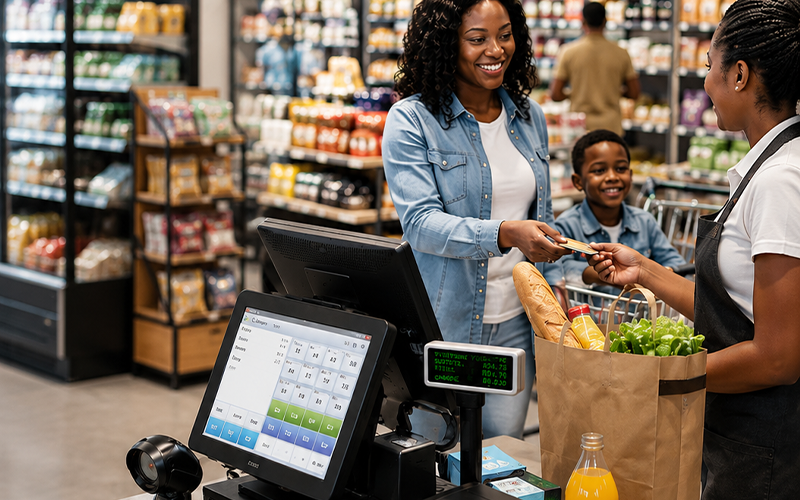
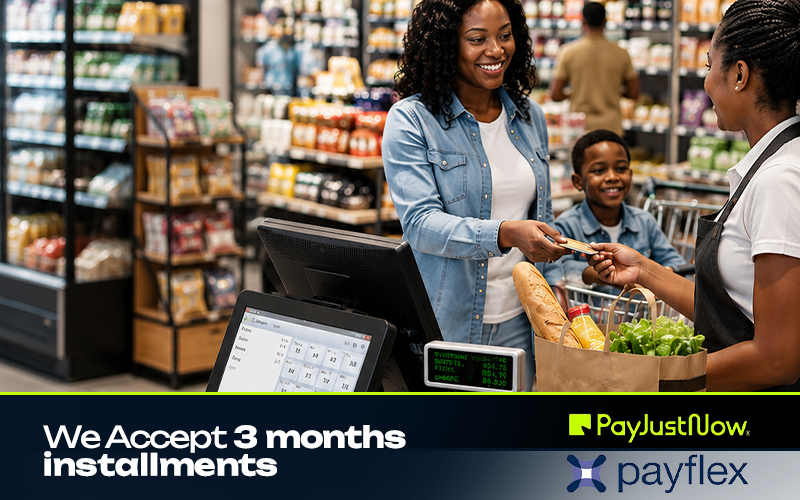
.

Changed region(s): [[0.0, 0.78, 1.0, 1.0]]

diff --git a/resources/views/pages/faq.blade.php b/resources/views/pages/faq.blade.php
@@ -43,7 +43,7 @@
                         ['q' => 'What is your warranty policy?', 'a' => 'All products come with an 18-month warranty covering manufacturing defects. Extended warranty options are available on select products. The warranty does not cover damage from misuse, unauthorized modifications, physical damage, or normal wear and tear. Consumable items like cables and batteries are not covered.'],
                         ['q' => 'Can I return a product?', 'a' => 'Yes, we offer a 30-day hassle-free return policy. Products must be in their original condition and packaging, with all accessories, manuals, and cables included. Please contact our support team to initiate a return. Return shipping is covered by Denny Express for defective items.'],
                         ['q' => 'Do you sell to businesses?', 'a' => 'Absolutely! We cater to businesses of all sizes — from small spaza shops to large retail chains. We offer bulk pricing, B2B invoicing, dedicated account management, and custom quotes for corporate clients. Contact us to discuss your business needs.'],
-                        ['q' => 'How do I request a quote?', 'a' => 'You can request a quote through our Quote Request form on the website, or by contacting our sales team directly at info@dennyexpress.co.za or 074 355 1336. Our team will review your requirements and get back to you within 24 hours with a competitive quote.'],
+                        ['q' => 'How do I request a quote?', 'a' => 'You can request a quote through our Quote Request form on the website, or by contacting our sales team directly at sales@dennyexpress.co.za or 074 355 1336. Our team will review your requirements and get back to you within 24 hours with a competitive quote.'],
                         ['q' => 'Are your products genuine?', 'a' => 'Yes, all products sold by Denny Express are 100% genuine and sourced from authorized distributors and manufacturers. We work directly with leading POS hardware brands to ensure authenticity and quality. We guarantee authenticity on every purchase.'],
                         ['q' => 'Do you offer technical support?', 'a' => 'Yes, our team of certified engineers provides technical support to help you choose the right products and assist with any technical questions you may have. We offer email support (support@dennyexpress.co.za), phone support (074 355 1336), and WhatsApp support during business hours.'],
                         ['q' => 'Can I cancel or change my order?', 'a' => 'Orders can be cancelled or modified within 1 hour of placement. After that, please contact our support team as soon as possible and we\'ll do our best to accommodate your request. Once an order has been shipped, it cannot be cancelled but may be eligible for return under our 30-day return policy.'],

diff --git a/resources/views/welcome.blade.php b/resources/views/welcome.blade.php
@@ -25,8 +25,8 @@
                         for Your Business
                     </h1>
                     
-                    <p class="text-gray-300 text-sm sm:text-base lg:text-lg leading-relaxed mb-6 sm:mb-8">
-                        Complete POS systems with touch terminals, receipt printers, barcode scanners, cash drawers, and scales. 
+                    <p class="text-gray-300 text-sm sm:text-base lg:text-lg leading-relaxed mb-4 sm:mb-8">
+                        Complete POS ( Point of Sale) systems with touch terminals, receipt printers, barcode scanners, cash drawers, and butcher weighing scales. 
                         <span class="text-white font-semibold">DennyPOS locally-installed software</span> — works offline, your data stays on-premises.
                     </p>
                     
@@ -53,12 +53,12 @@
                             <p class="text-xs sm:text-sm text-gray-400">Locally Installed</p>
                         </div>
                         <div class="text-center">
-                            <p class="text-lg sm:text-2xl font-black text-primary">18</p>
-                            <p class="text-xs sm:text-sm text-gray-400">Month Warranty</p>
+                            <p class="text-lg sm:text-2xl font-black text-primary">With</p>
+                            <p class="text-xs sm:text-sm text-gray-400">Monthly Warranty</p>
                         </div>
                         <div class="text-center">
-                            <p class="text-lg sm:text-2xl font-black text-primary">R5k+</p>
-                            <p class="text-xs sm:text-sm text-gray-400">Free Delivery</p>
+                            <p class="text-lg sm:text-2xl font-black text-primary">Delivery</p>
+                            <p class="text-xs sm:text-sm text-gray-400">Nationwide</p>
                         </div>
                     </div>
                 </div>
@@ -866,7 +866,7 @@
                         ],
                         [
                             'q' => 'How can I contact customer service?',
-                            'a' => 'You can reach us through our contact form on the website, by emailing info@dennyexpress.co.za, or by calling our customer service hotline at 074 355 1336. We also offer WhatsApp support for quick inquiries.'
+                            'a' => 'You can reach us through our contact form on the website, by emailing sales@dennyexpress.co.za, or by calling our customer service hotline at 074 355 1336. We also offer WhatsApp support for quick inquiries.'
                         ],
                         [
                             'q' => 'Is DennyPOS cloud-based or locally installed?',

diff --git a/resources/views/checkout/cancel.blade.php b/resources/views/checkout/cancel.blade.php
@@ -29,11 +29,11 @@
                         </svg>
                         074 355 1336
                     </a>
-                    <a href="mailto:info@dennyexpress.co.za" class="flex items-center gap-1 text-primary hover:underline">
+                    <a href="mailto:sales@dennyexpress.co.za" class="flex items-center gap-1 text-primary hover:underline">
                         <svg class="w-4 h-4" fill="none" stroke="currentColor" viewBox="0 0 24 24">
                             <path stroke-linecap="round" stroke-linejoin="round" stroke-width="2" d="M3 8l7.89 5.26a2 2 0 002.22 0L21 8M5 19h14a2 2 0 002-2V7a2 2 0 00-2-2H5a2 2 0 00-2 2v10a2 2 0 002 2z" />
                         </svg>
-                        info@dennyexpress.co.za
+                        sales@dennyexpress.co.za
                     </a>
                 </div>
             </div>

diff --git a/resources/views/pages/support.blade.php b/resources/views/pages/support.blade.php
@@ -64,7 +64,7 @@
                     </div>
                     <h3 class="text-base sm:text-xl font-black text-gray-900 uppercase mb-2">Email Support</h3>
                     <p class="text-gray-600 text-sm sm:text-base mb-4">Send us an email and we'll get back to you promptly</p>
-                    <a href="mailto:info@dennyexpress.co.za" class="inline-flex items-center gap-2 text-primary hover:text-primary-dark font-bold text-sm">
+                    <a href="mailto:sales@dennyexpress.co.za" class="inline-flex items-center gap-2 text-primary hover:text-primary-dark font-bold text-sm">
                         Email Us <svg class="w-4 h-4" fill="none" stroke="currentColor" viewBox="0 0 24 24"><path stroke-linecap="round" stroke-linejoin="round" stroke-width="2" d="M17 8l4 4m0 0l-4 4m4-4H3" /></svg>
                     </a>
                 </div>

diff --git a/resources/views/components/partials/footer.blade.php b/resources/views/components/partials/footer.blade.php
@@ -66,7 +66,7 @@
                         <svg class="w-4 h-4 mt-0.5 text-green-500 shrink-0" fill="none" stroke="currentColor" viewBox="0 0 24 24">
                             <path stroke-linecap="round" stroke-linejoin="round" stroke-width="2" d="M3 8l7.89 5.26a2 2 0 002.22 0L21 8M5 19h14a2 2 0 002-2V7a2 2 0 00-2-2H5a2 2 0 00-2 2v10a2 2 0 002 2z" />
                         </svg>
-                        <span>info@dennyexpress.co.za</span>
+                        <span>sales@dennyexpress.co.za</span>
                     </li>
                     <li class="flex items-start gap-2 text-sm text-gray-300">
                         <svg class="w-4 h-4 mt-0.5 text-green-500 shrink-0" fill="none" stroke="currentColor" viewBox="0 0 24 24">

diff --git a/resources/views/pages/privacy.blade.php b/resources/views/pages/privacy.blade.php
@@ -83,7 +83,7 @@
                     <h2 class="text-lg sm:text-2xl font-black text-gray-900 uppercase mb-3 sm:mb-4">7. Contact Us</h2>
                     <p class="text-sm sm:text-base text-gray-600 leading-relaxed">If you have any questions or concerns about our privacy policy, please contact us:</p>
                     <ul class="mt-3 space-y-2 text-sm sm:text-base text-gray-600">
-                        <li><strong>Email:</strong> info@dennyexpress.co.za</li>
+                        <li><strong>Email:</strong> sales@dennyexpress.co.za</li>
                         <li><strong>Phone:</strong> 074 355 1336</li>
                         <li><strong>WhatsApp:</strong> 074 355 1336</li>
                     </ul>

diff --git a/resources/views/pages/terms.blade.php b/resources/views/pages/terms.blade.php
@@ -77,7 +77,7 @@
                     <h2 class="text-lg sm:text-2xl font-black text-gray-900 uppercase mb-3 sm:mb-4">9. Contact Information</h2>
                     <p class="text-sm sm:text-base text-gray-600 leading-relaxed">If you have any questions about these terms, please contact us at:</p>
                     <ul class="mt-3 space-y-2 text-sm sm:text-base text-gray-600">
-                        <li><strong>Email:</strong> info@dennyexpress.co.za</li>
+                        <li><strong>Email:</strong> sales@dennyexpress.co.za</li>
                         <li><strong>Phone:</strong> 074 355 1336</li>
                         <li><strong>WhatsApp:</strong> 074 355 1336</li>
                     </ul>

diff --git a/resources/views/pages/track-order.blade.php b/resources/views/pages/track-order.blade.php
@@ -147,7 +147,7 @@
                                 <div>
                                     <p class="text-sm font-semibold text-gray-900">Need help with your order?</p>
                                     <p class="text-sm text-gray-600 mt-1">
-                                        Contact us on WhatsApp at <strong>074 355 1336</strong> or email <strong>info@dennyexpress.co.za</strong>
+                                        Contact us on WhatsApp at <strong>074 355 1336</strong> or email <strong>sales@dennyexpress.co.za</strong>
                                     </p>
                                 </div>
                             </div>

diff --git a/resources/views/payment/error.blade.php b/resources/views/payment/error.blade.php
@@ -27,7 +27,7 @@
 
             <div class="mt-8 bg-gray-50 rounded-xl p-4 text-sm text-gray-600">
                 <p class="font-medium mb-1">Need help?</p>
-                <p>Contact us at <a href="tel:0743551336" class="text-primary hover:underline">074 355 1336</a> or <a href="mailto:info@dennyexpress.co.za" class="text-primary hover:underline">info@dennyexpress.co.za</a></p>
+                <p>Contact us at <a href="tel:0743551336" class="text-primary hover:underline">074 355 1336</a> or <a href="mailto:sales@dennyexpress.co.za" class="text-primary hover:underline">sales@dennyexpress.co.za</a></p>
             </div>
         </div>
     </div>

diff --git a/resources/views/components/partials/topbar.blade.php b/resources/views/components/partials/topbar.blade.php
@@ -11,7 +11,7 @@
                 <svg class="w-4 h-4 text-accent" fill="none" stroke="currentColor" viewBox="0 0 24 24">
                     <path stroke-linecap="round" stroke-linejoin="round" stroke-width="2" d="M3 8l7.89 5.26a2 2 0 002.22 0L21 8M5 19h14a2 2 0 002-2V7a2 2 0 00-2-2H5a2 2 0 00-2 2v10a2 2 0 002 2z" />
                 </svg>
-                <span>info@dennyexpress.co.za</span>
+                <span>sales@dennyexpress.co.za</span>
             </span>
             <span class="hidden lg:inline-flex items-center gap-1.5">
                 <svg class="w-4 h-4 text-accent" fill="none" stroke="currentColor" viewBox="0 0 24 24">

diff --git a/resources/views/pages/contact.blade.php b/resources/views/pages/contact.blade.php
@@ -54,7 +54,7 @@
                             </div>
                             <div>
                                 <h3 class="font-bold text-gray-900 text-sm sm:text-base">Email</h3>
-                                <p class="text-gray-600 text-xs sm:text-sm mt-1">info@dennyexpress.co.za</p>
+                                <p class="text-gray-600 text-xs sm:text-sm mt-1">sales@dennyexpress.co.za</p>
                             </div>
                         </div>
 

diff --git a/check_specs.php b/check_specs.php
@@ -1,0 +1,6 @@
+<?php
+$db = new SQLite3('database/database.sqlite');
+$results = $db->query("SELECT slug, specifications FROM products WHERE specifications IS NOT NULL LIMIT 5");
+while ($row = $results->fetchArray(SQLITE3_ASSOC)) {
+    echo $row['slug'] . ': ' . $row['specifications'] . PHP_EOL . PHP_EOL;
+}
